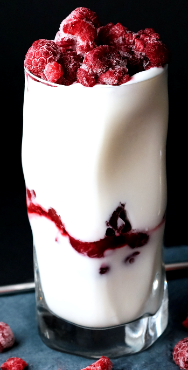
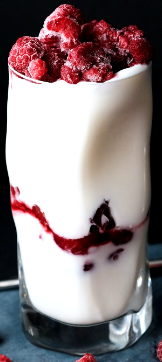
Apply grid system to drink images to make them responsive on different screen sizes.

diff --git a/home/templates/includes/juices.html b/home/templates/includes/juices.html
@@ -1,37 +1,31 @@
 <section>
     <h1 class="text-capitalize">juices</h1>
-    <div class="text-left">
-        {% for juice in juices %}
-            <div class="container">                
-                <div class="row">
-
-                    <div class="col pr-0">
-                        <div class="drinks_img">
-                            <img src="{{ juice.image }}" alt="{{ juice.drink_name }}" class="rounded">
-                        </div>
-                    </div>
-                    <div class="col pl-1">
-                        <ul class="mb-0">
-                            <li class="text-capitalize">{{ juice.drink_name }}</li> 
-                            <li>1x{{ juice.millilitres }}ml</li>                            
-                            <li>£{{ juice.price}}</li>                            
-                        </ul>
-                    </div>
-
-                </div>
-                <div class="row mb-5"> 
-
-                    <div class="col text-center mt-2">
-                        <form method="GET" action="#" class="quantity-selection">
-                            {% csrf_token %}
-                            <label for="drinkSelections"></label>
-                            <input type="number" id="drinkSelections" name="drinkSelections">
-                            <button type="submit" class="text-uppercase bg-secondary">add to cart</button>
-                        </form>
-                    </div>
-
-                </div>
+        <div class="container">
+            <div class="row">
+                {% for juice in juices %}
+                    <div class="col-sm-6 col-md-4 col-lg-3">                  
+                        <div class="container">                
+                            <div class="row">
+                                <div class="col">
+                                    <div class="drinks_img">
+                                        <img src="{{ juice.image }}" alt="{{ juice.drink_name }}" class="rounded">
+                                    </div>
+                                    <ul>
+                                        <li class="text-capitalize">{{ juice.drink_name }}</li> 
+                                        <li>1x{{ juice.millilitres }}ml</li>                            
+                                        <li>£{{ juice.price}}</li>                            
+                                    </ul>
+                                    <form method="GET" action="#" class="quantity-selection">
+                                        {% csrf_token %}
+                                        <label for="drinkSelections"></label>
+                                        <input value="1" type="number" id="drinkSelections" name="drinkSelections">
+                                        <button type="submit" class="text-uppercase bg-secondary">add to cart</button>
+                                    </form>                                
+                                </div>
+                            </div>
+                        </div>                                                        
+                    </div>              
+                {% endfor %}
             </div>
-        {% endfor %}
-    </div>
+        </div>
 </section>

diff --git a/home/templates/includes/milkshakes.html b/home/templates/includes/milkshakes.html
@@ -1,37 +1,31 @@
 <section>
     <h1 class="text-capitalize">milkshakes</h1>
-    <div class="text-left">
-        {% for milkshake in milkshakes %}
-            <div class="container">                
-                <div class="row">
-                    
-                    <div class="col pr-0">
-                        <div class="drinks_img">
-                            <img src="{{ milkshake.image }}" alt="{{ milkshake.drink_name }}" class="rounded">
+        <div class="container">
+            <div class="row">
+                {% for milkshake in milkshakes %}
+                    <div class="col-sm-6 col-md-4 col-lg-3">            
+                        <div class="container">                
+                            <div class="row">    
+                                <div class="col">
+                                    <div class="drinks_img">
+                                        <img src="{{ milkshake.image }}" alt="{{ milkshake.drink_name }}" class="rounded">
+                                    </div>
+                                    <ul>
+                                        <li class="text-capitalize">{{ milkshake.drink_name }}</li> 
+                                        <li>1x{{ milkshake.millilitres }}ml</li>                            
+                                        <li>£{{ milkshake.price}}</li>                            
+                                    </ul>
+                                    <form method="GET" action="#" class="quantity-selection">
+                                        {% csrf_token %}
+                                        <label for="drinkSelections"></label>
+                                        <input value="1" type="number" id="drinkSelections" name="drinkSelections">
+                                        <button type="submit" class="text-uppercase bg-secondary">add to cart</button>
+                                    </form>
+                                </div>
+                            </div>
                         </div>
-                    </div>
-                    <div class="col pl-1">
-                        <ul class="mb-0">
-                            <li class="text-capitalize">{{ milkshake.drink_name }}</li> 
-                            <li>1x{{ milkshake.millilitres }}ml</li>                            
-                            <li>£{{ milkshake.price}}</li>                            
-                        </ul>
-                    </div>
-
-                </div>
-                <div class="row mb-5">
-                    
-                    <div class="col text-center mt-2">
-                        <form method="GET" action="#" class="quantity-selection">
-                            {% csrf_token %}
-                            <label for="drinkSelections"></label>
-                            <input type="number" id="drinkSelections" name="drinkSelections">
-                            <button type="submit" class="text-uppercase bg-secondary">add to cart</button>
-                        </form>
-                    </div>
-
-                </div>
+                    </div>  
+                {% endfor %}
             </div>
-        {% endfor %}
-    </div>
+        </div>
 </section>

diff --git a/home/templates/includes/new-drinks.html b/home/templates/includes/new-drinks.html
@@ -1,37 +1,31 @@
 <section>
     <h1 class="text-capitalize mt-4">new drinks</h1>
-    <div class="text-left">
-        {% for new_drink in new_drinks %}
-            <div class="container">                
-                <div class="row">
-                    
-                    <div class="col pr-0">
-                        <div class="drinks_img">
-                            <img src="{{ new_drink.image }}" alt="{{ new_drink.drink_name }}" class="rounded">
+    <div class="container">
+        <div class="row">     
+            {% for new_drink in new_drinks %}
+                <div class="col-sm-6 col-lg-3">
+                    <div class="container">                
+                        <div class="row">
+                            <div class="col">
+                                <div class="drinks_img">
+                                    <img src="{{ new_drink.image }}" alt="{{ new_drink.drink_name }}" class="rounded">
+                                </div>
+                                <ul>
+                                    <li class="text-capitalize">{{ new_drink.drink_name }}</li> 
+                                    <li>1x{{ new_drink.millilitres }}ml</li>                            
+                                    <li>£{{ new_drink.price}}</li>                            
+                                </ul>
+                                <form method="GET" action="#" class="quantity-selection">
+                                    {% csrf_token %}
+                                    <label for="drinkSelections"></label>
+                                    <input value="1" type="number" id="drinkSelections" name="drinkSelections">
+                                    <button type="submit" class="text-uppercase bg-secondary">add to cart</button>
+                                </form>
+                            </div>
                         </div>
                     </div>
-                    <div class="col pl-1">
-                        <ul class="mb-0">
-                            <li class="text-capitalize">{{ new_drink.drink_name }}</li> 
-                            <li>1x{{ new_drink.millilitres }}ml</li>                            
-                            <li>£{{ new_drink.price}}</li>                            
-                        </ul>
-                    </div>
-
                 </div>
-                <div class="row mb-5">
-                    
-                    <div class="col text-center mt-2">
-                        <form method="GET" action="#" class="quantity-selection">
-                            {% csrf_token %}
-                            <label for="drinkSelections"></label>
-                            <input type="number" id="drinkSelections" name="drinkSelections">
-                            <button type="submit" class="text-uppercase bg-secondary">add to cart</button>
-                        </form>
-                    </div>
-
-                </div>
-            </div>
-        {% endfor %}
+            {% endfor %}    
+        </div>
     </div>
 </section>

diff --git a/templates/includes/large-screen-1st-banner.html b/templates/includes/large-screen-1st-banner.html
@@ -24,26 +24,18 @@
             </div>
 
             <div class="col-2 mt-2">
-                <a href="#" class="{% if grand_total %}text-secondary{% else %}text-body{% endif %}">   
-                    <!-- <div class="container text-right"> -->
-                        <!-- <div class="row"> -->
-                            <!-- <div class="col-sm pr-4 mt-2"> -->
-                                <i class="fas fa-shopping-cart"></i>
-                                <span class="trolley-counter counter-circle text-center">0</span>
-                            <!-- </div> -->
-                        <!-- </div> -->
-                        <!-- <div class="row"> -->
-                            <div class="col-sm">
-                                <span class="trolley-price font-weight-bold">
-                                    {% if grand_total %}
-                                        £{{ grand_total|floatformat:2 }}
-                                    {% else %}
-                                        £0.00
-                                    {% endif %}
-                                </span> 
-                            </div>
-                        <!-- </div> -->
-                    <!-- </div> -->
+                <a href="#" class="{% if grand_total %}text-secondary{% else %}text-body{% endif %}"> 
+                    <i class="fas fa-shopping-cart"></i>
+                    <span class="trolley-counter counter-circle text-center">0</span>
+                    <div class="col-sm">
+                        <span class="trolley-price font-weight-bold">
+                            {% if grand_total %}
+                                £{{ grand_total|floatformat:2 }}
+                            {% else %}
+                                £0.00
+                            {% endif %}
+                        </span> 
+                    </div>
                 </a>
             </div>
 

diff --git a/templates/includes/footer.html b/templates/includes/footer.html
@@ -1,13 +1,13 @@
 <!-- bootstrap card -->
 <footer class="footer-contacts font-weight-bold">
     <div class="card border-secondary">
-        <div class="card-footer bg-secondary border-secondary text-center pb-0">
+        <div class="card-footer bg-secondary border-secondary text-center pb-0 pt-0">
             <i class="fa-2x fab fa-youtube"></i>
             <i class="fa-2x fab fa-twitter-square"></i>
             <i class="fa-2x fab fa-snapchat-square"></i>
             <i class="fa-2x fab fa-facebook-square"></i>
             <i class="fa-2x fab fa-instagram"></i>
-            <p>
+            <p class="mb-0">
                 +585 8415 7327<br>slurps@civoo.com<br> Slurps, 91 North Street, Winterfield, E92 3QB
             </p>                  
         </div>

diff --git a/home/templates/includes/about-us.html b/home/templates/includes/about-us.html
@@ -31,7 +31,7 @@
 
             <div class="col-12 col-sm-6 col-md-4">
                 <div class="about_us_img">
-                    <img src="media/about-farm.jpg" class="rounded">
+                    <img src="media/about-farm.PNG" class="rounded">
                     <h2 class="text-capitalize">ethical sourcing</h2>  
                     <p>
                       We ensure all our ingredients are ethically sourced in a responsible and
